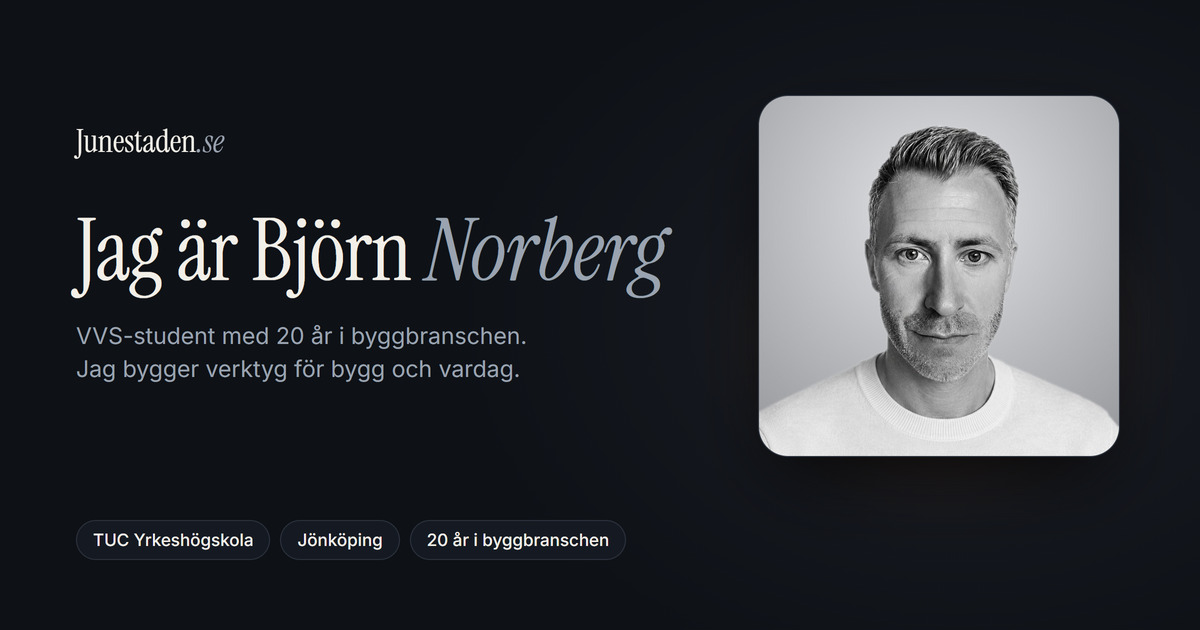
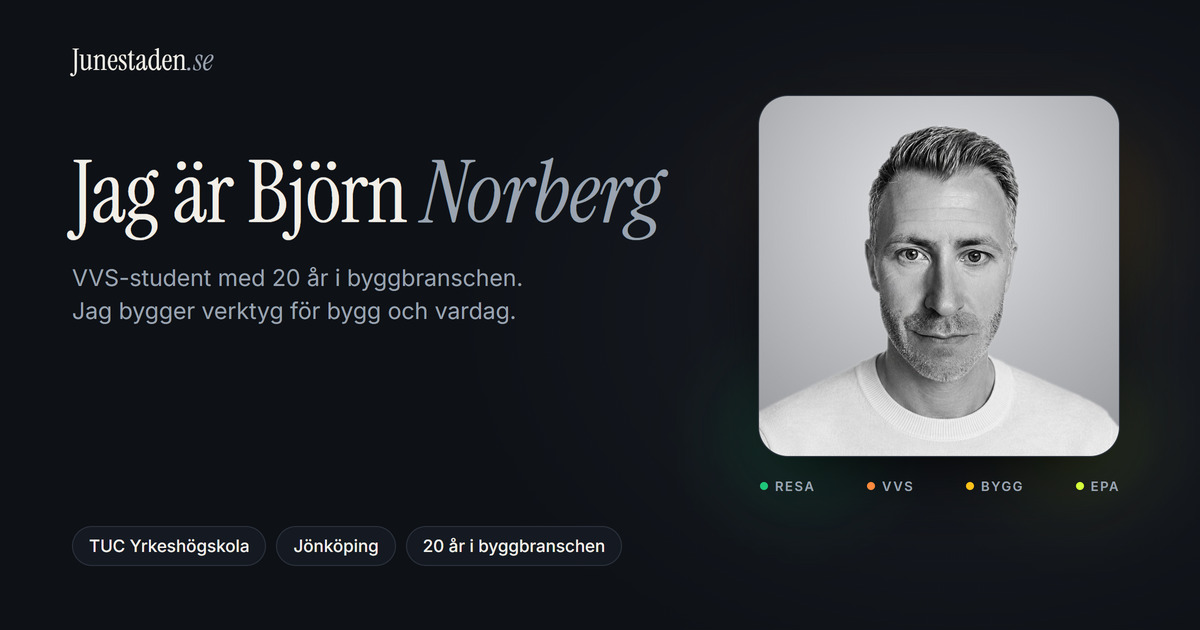
Ny delningsbild för Om mig i samma stil som startsidans

diff --git a/design/og-om.html b/design/og-om.html
@@ -1,30 +1,35 @@
 <!doctype html>
 <!-- Mall för delningsbilden img/og-om.jpg (1200 × 630) till junestaden.se/om. Behöver inte laddas upp till webben.
-     Renderas i 2x och skalas ner till 1200 × 630, sparas som JPG. -->
+     Rendera med: python design/skarmdumpar.py og-om --skriv
+     Samma uttryck som og.jpg: märket uppe till vänster och verktygens färger. -->
 <html lang="sv"><head><meta charset="utf-8">
-<link href="https://fonts.googleapis.com/css2?family=Instrument+Serif:ital@0;1&family=Inter:wght@400;500&display=block" rel="stylesheet">
+<link href="https://fonts.googleapis.com/css2?family=Instrument+Serif:ital@0;1&family=Inter:wght@400;500;600&display=block" rel="stylesheet">
 <style>
 body { margin: 0; width: 1200px; height: 630px; overflow: hidden; position: relative;
   background: radial-gradient(800px 600px at 80% 50%, #1a1d24 0%, #0e1116 65%); color: #f2efe8; font-family: Inter, sans-serif; }
-.text { position: absolute; left: 76px; top: 120px; width: 640px; }
-.brand { font: 32px "Instrument Serif", serif; }
+.text { position: absolute; left: 72px; top: 150px; width: 660px; }
+.brand { position: absolute; left: 72px; top: 40px; font: 30px "Instrument Serif", serif; letter-spacing: .2px; }
 .brand em { color: #9aa3b0; }
-h1 { margin: 46px 0 0; font: 400 86px/1 "Instrument Serif", serif; letter-spacing: -.5px; }
+h1 { margin: 0; font: 400 86px/1 "Instrument Serif", serif; letter-spacing: -.5px; }
 h1 em { color: #9aa3b0; }
 p { margin: 26px 0 0; font: 400 23px/1.45 Inter, sans-serif; color: #9aa3b0; }
-.chips { position: absolute; left: 76px; bottom: 70px; display: flex; gap: 10px; }
+.chips { position: absolute; left: 72px; bottom: 64px; display: flex; gap: 10px; }
 .chips span { font: 500 17px Inter, sans-serif; color: #f2efe8; border: 1px solid #2b323d; background: #151a22; border-radius: 999px; padding: 9px 16px; }
 .photo { position: absolute; right: 80px; top: 95px; width: 360px; height: 360px; border-radius: 30px; overflow: hidden; border: 1px solid #2b323d;
   box-shadow: 0 30px 70px -20px rgba(0,0,0,.9); }
-.glow { position: absolute; right: 40px; top: 160px; width: 440px; height: 360px; background: radial-gradient(closest-side, rgba(255,138,61,.22), transparent); filter: blur(20px); }
+.glow { position: absolute; right: 20px; top: 100px; width: 480px; height: 430px; filter: blur(34px); opacity: .9;
+  background: radial-gradient(closest-side at 22% 78%, rgba(31,199,122,.30), transparent), radial-gradient(closest-side at 78% 78%, rgba(212,255,58,.22), transparent), radial-gradient(closest-side at 50% 20%, rgba(255,138,61,.26), transparent), radial-gradient(closest-side at 80% 30%, rgba(255,194,26,.20), transparent); }
+.tools { position: absolute; right: 80px; top: 478px; width: 360px; display: flex; justify-content: space-between; font: 600 13px Inter, sans-serif; letter-spacing: .12em; text-transform: uppercase; color: #9aa3b0; }
+.tools i { display: inline-block; width: 8px; height: 8px; border-radius: 50%; margin-right: 7px; vertical-align: 1px; }
 .photo img { width: 100%; height: 100%; object-fit: cover; display: block; }
 </style></head><body>
+<div class="brand">Junestaden<em>.se</em></div>
 <div class="text">
-  <div class="brand">Junestaden<em>.se</em></div>
   <h1>Jag är Björn <em>Norberg</em></h1>
   <p>VVS-student med 20 år i byggbranschen.<br>Jag bygger verktyg för bygg och vardag.</p>
 </div>
 <div class="chips"><span>TUC Yrkeshögskola</span><span>Jönköping</span><span>20 år i byggbranschen</span></div>
 <div class="glow"></div>
 <div class="photo"><img src="../public/img/bjorn.jpg" alt=""></div>
+<div class="tools"><span><i style="background:#1fc77a"></i>Resa</span><span><i style="background:#ff8a3d"></i>VVS</span><span><i style="background:#ffc21a"></i>Bygg</span><span><i style="background:#d4ff3a"></i>EPA</span></div>
 </body></html>

diff --git a/public/om.html b/public/om.html
@@ -20,7 +20,7 @@
 <meta property="og:url" content="https://junestaden.se/om">
 <meta property="og:title" content="Om mig – Björn Norberg">
 <meta property="og:description" content="VVS-student med 20 år i byggbranschen som bygger egna verktyg för bygg och vardag.">
-<meta property="og:image" content="https://junestaden.se/img/og-om.jpg?v=2">
+<meta property="og:image" content="https://junestaden.se/img/og-om.jpg?v=3">
 <meta property="og:image:width" content="1200">
 <meta property="og:image:height" content="630">
 <meta property="profile:first_name" content="Björn">
